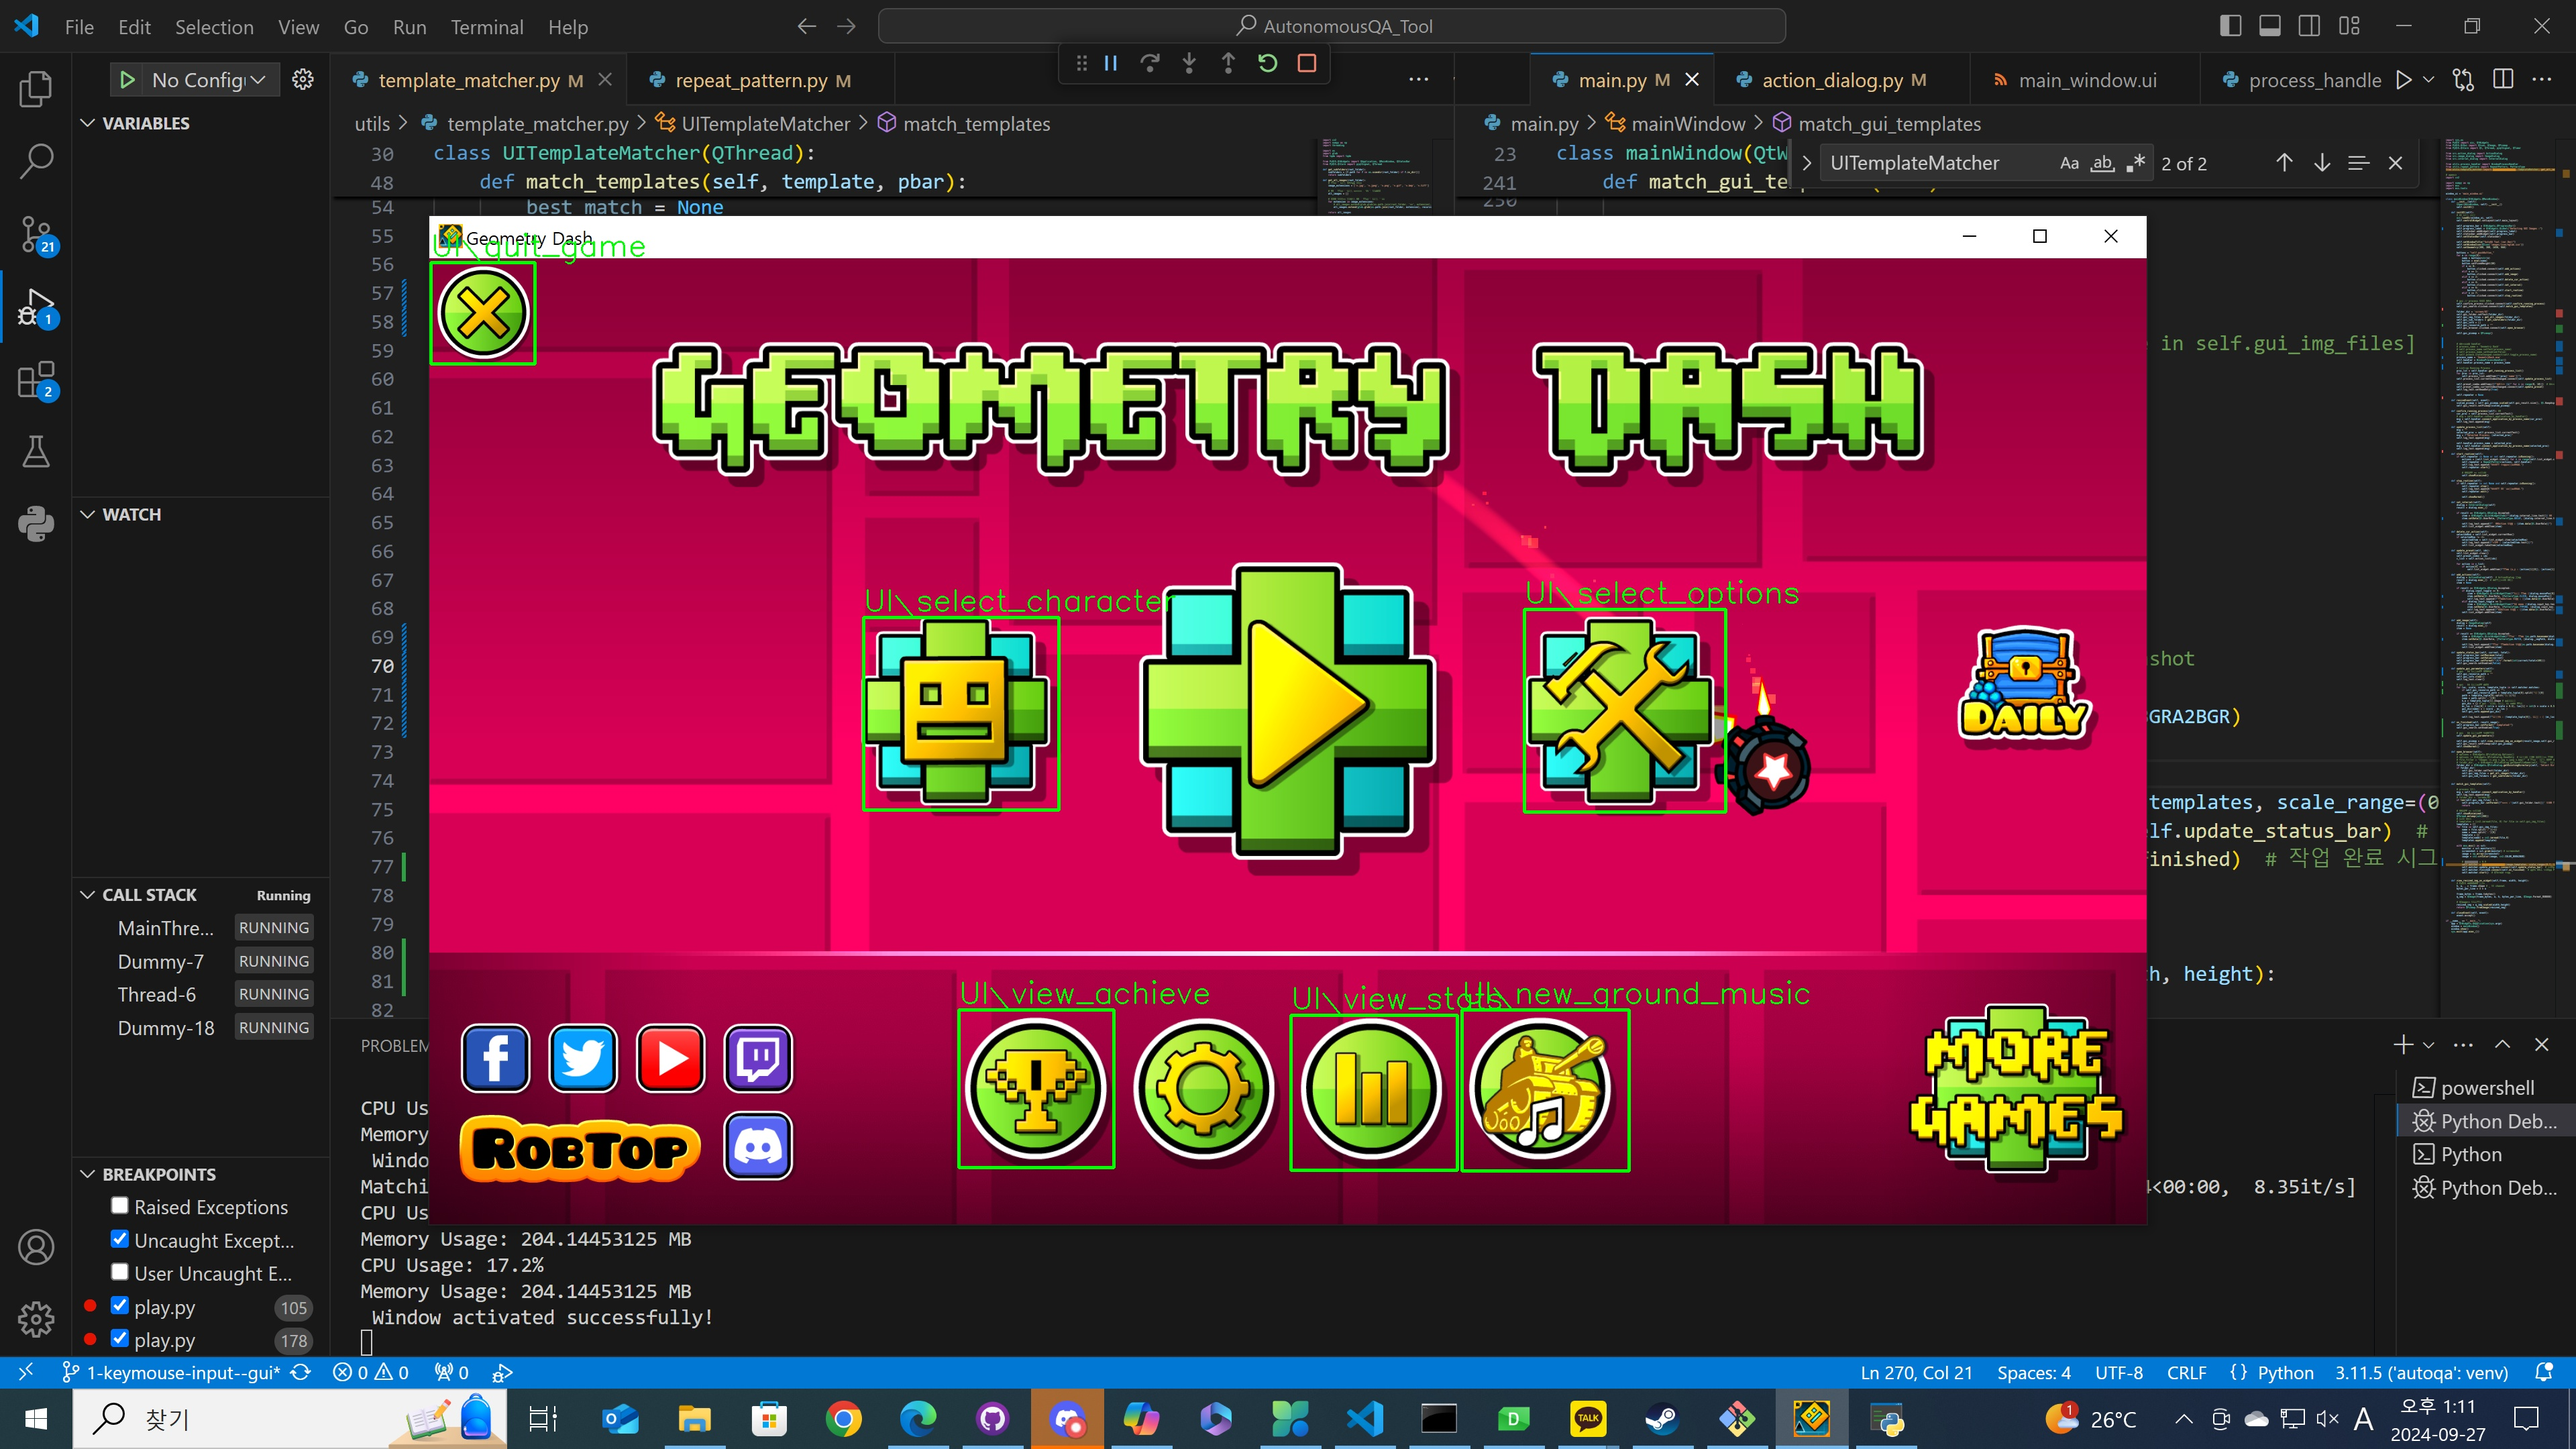
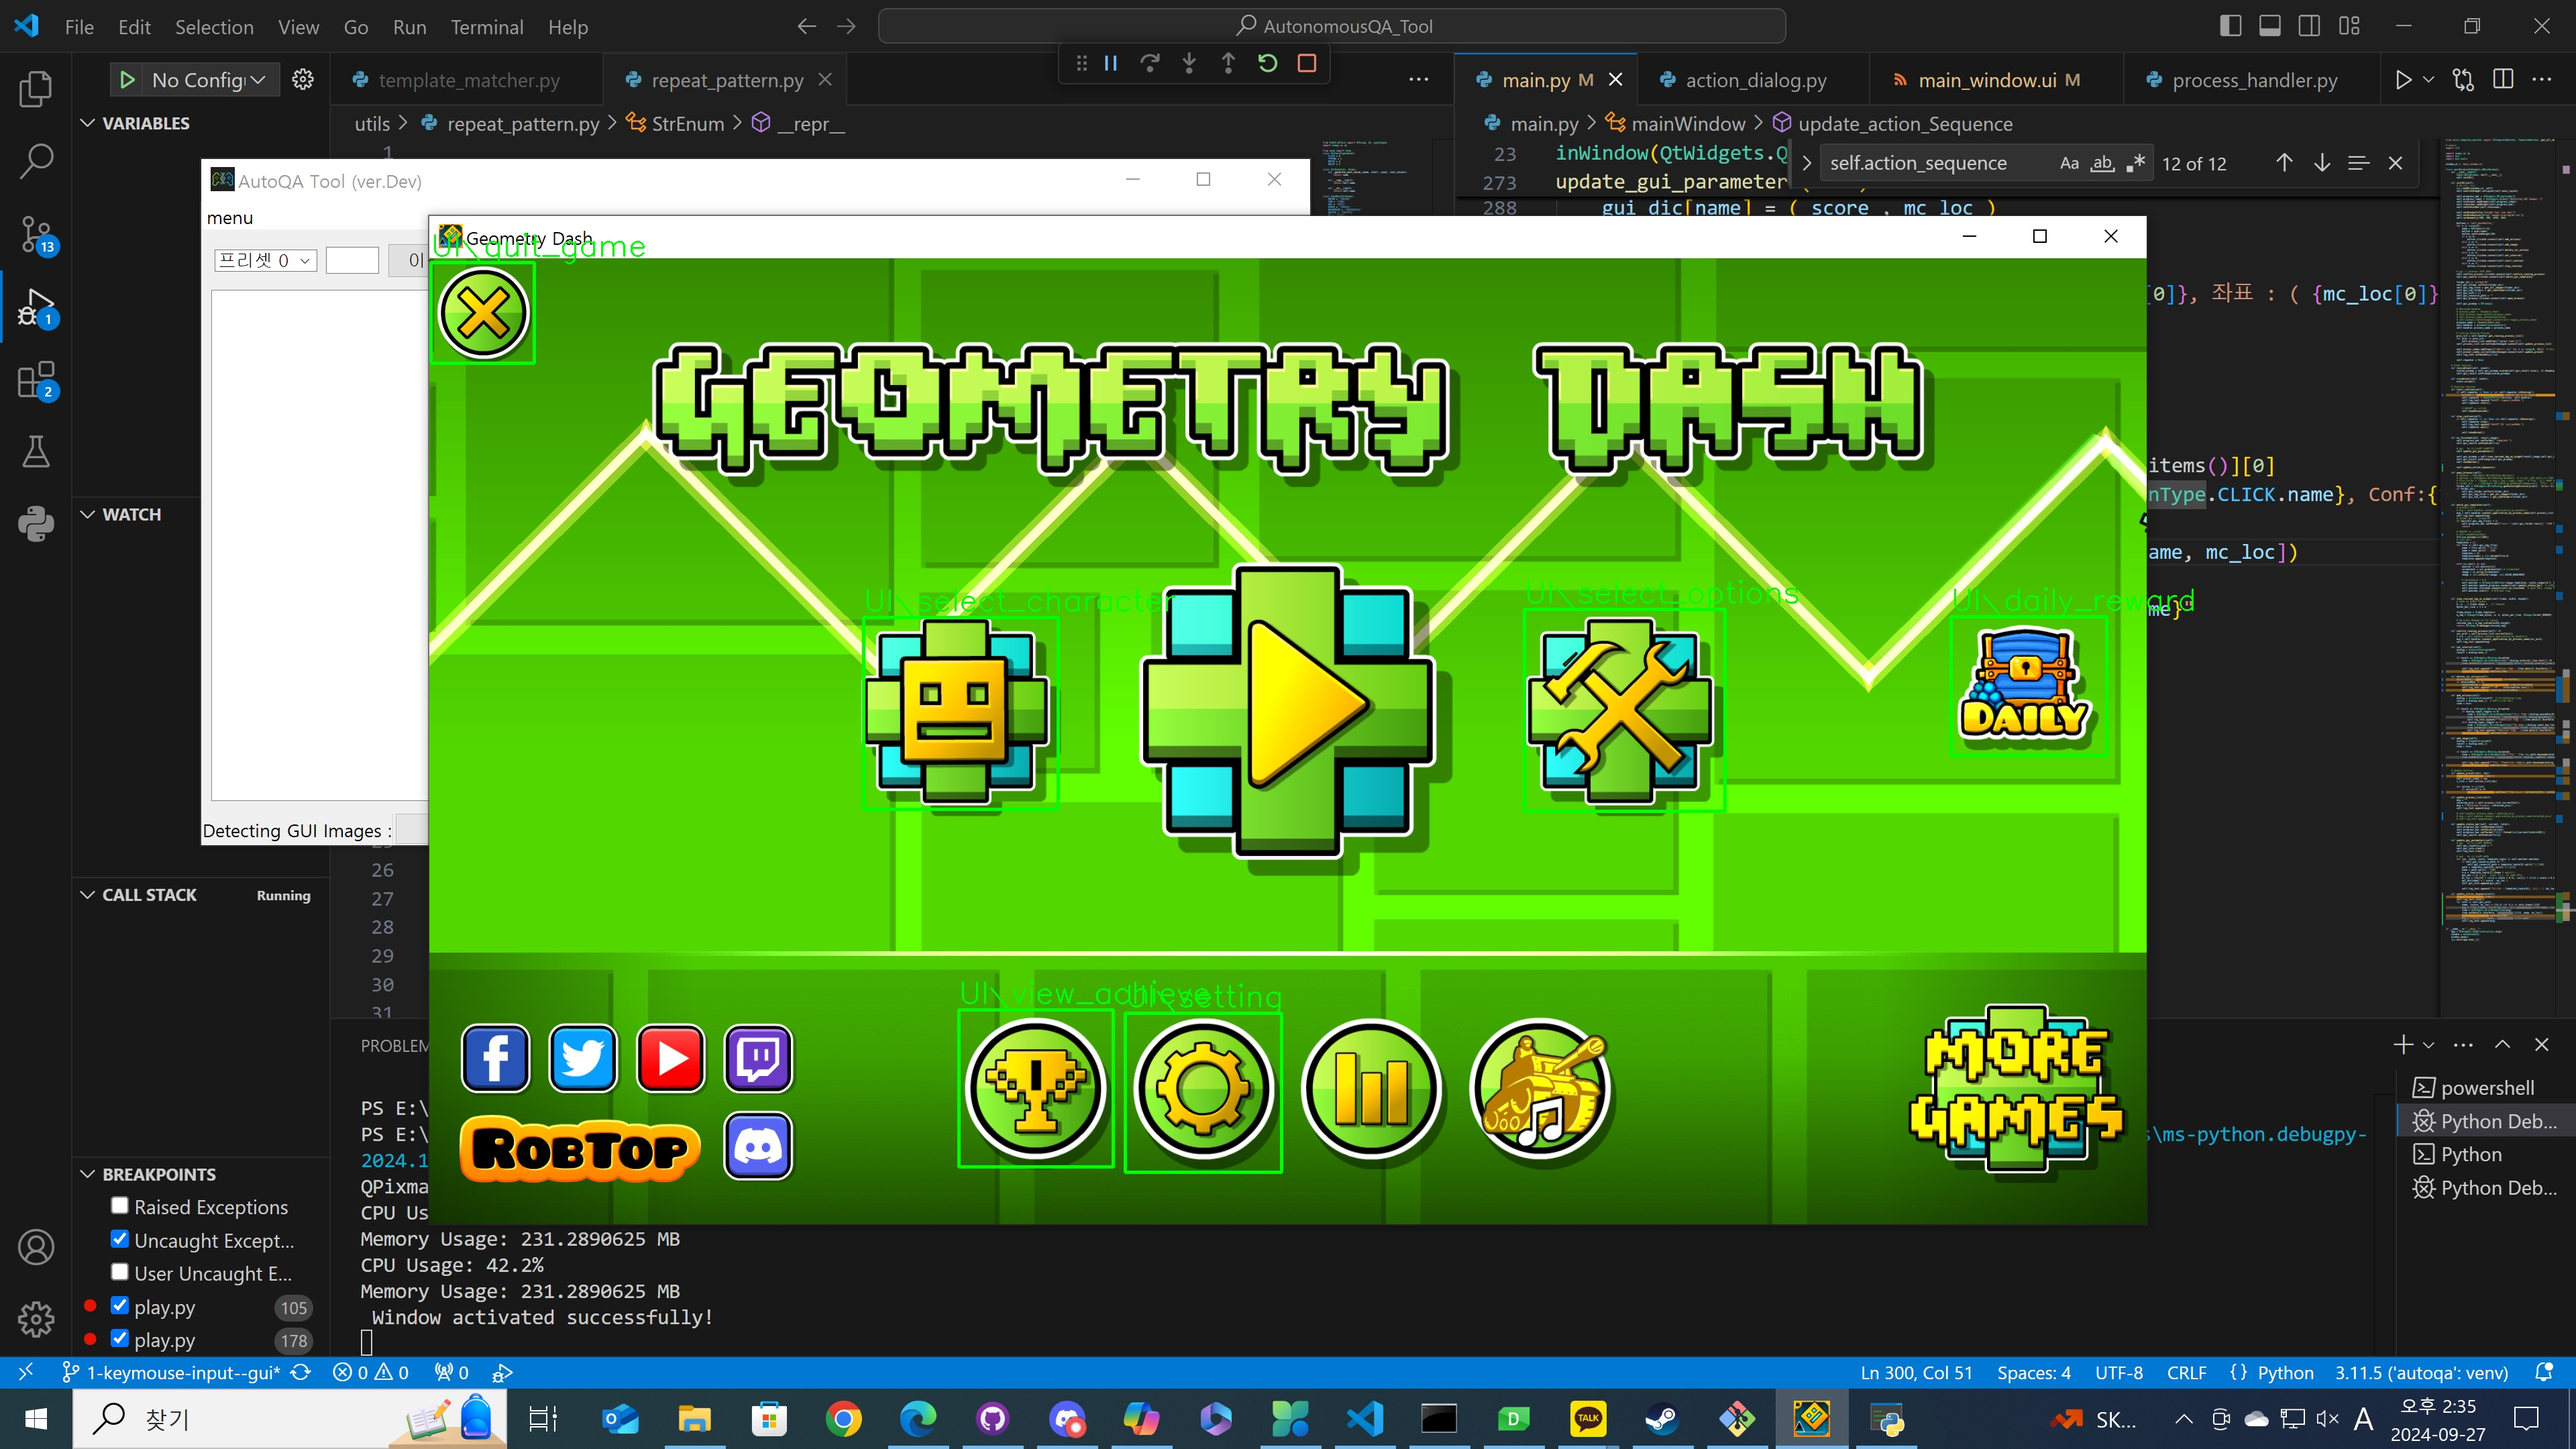
[Update] GUI 이미지 이름과 좌표 등록 자동화 구현[완료]

diff --git a/main.py b/main.py
@@ -104,7 +104,7 @@ class mainWindow(QtWidgets.QMainWindow):
     # Function Section
     def start_routine(self):
         if self.repeater is None or not self.repeater.isRunning():
-            actions = [self.list_widget.item(i) for i in range(self.list_widget.count())]
+            actions = [self.action_sequence.item(i) for i in range(self.action_sequence.count())]
             self.repeater = RepeatPattern(actions, self.handler)
             self.log_text.append("루틴이 시작되었습니다.")
             self.repeater.start()
@@ -130,6 +130,8 @@ class mainWindow(QtWidgets.QMainWindow):
         self.gui_pixmap = self.view_resized_img_on_widget(result_image,self.gui_result.width(),self.gui_result.height())
         self.gui_result.setPixmap(self.gui_pixmap)
         self.showNormal()
+        
+        self.update_action_Sequence()
 
     def open_browser(self):
         # options = QtWidgets.QFileDialog.Options()
@@ -146,7 +148,7 @@ class mainWindow(QtWidgets.QMainWindow):
     def match_gui_templates(self):
         # process 접근
         # msg = self.handler.connect_application_by_handler()
-        msg = self.handler.get_handler_of_window_process(self.process_list.currentText())
+        msg = self.handler.connect_application_by_process_name(self.process_list.currentText())
         self.log_text.append(msg)
         # folder_dir = 'screen/UI'
         if len(self.gui_img_files) < 1:
@@ -154,7 +156,7 @@ class mainWindow(QtWidgets.QMainWindow):
             return
         
         # 윈도우 창 최소화            
-        self.showMinimized()
+        # self.showMinimized()
         QThread.msleep(int(200))
         # 사용 예제
         templates = []
@@ -172,7 +174,7 @@ class mainWindow(QtWidgets.QMainWindow):
             image = cv2.cvtColor(image, cv2.COLOR_BGRA2BGR)
 
             # threshhold = 0.9
-            self.matcher = UITemplateMatcher(image,templates, scale_range=(0.7, 1.2), scale_step=0.15)#,threshold=threshhold)
+            self.matcher = UITemplateMatcher(image,templates, scale_range=(0.7, 1.2), scale_step=0.1)#,threshold=threshhold)
             self.matcher.update_progress.connect(self.update_status_bar)  # 시그널 연결
             self.matcher.finished.connect(self.on_finished)  # 작업 완료 시그널 연결
             self.matcher.start()  # QThread 시작
@@ -205,14 +207,14 @@ class mainWindow(QtWidgets.QMainWindow):
             item.setData(Qt.UserRole, [PatternType.DELAY, [dialog.interval_line.text()]])
 
             self.log_text.append(f"대기Action 추가 : {item.data(Qt.UserRole)}")
-            self.list_widget.addItem(item)
+            self.action_sequence.addItem(item)
             
     def delete_cur_action(self):
-        selectedRow = self.list_widget.currentRow()
+        selectedRow = self.action_sequence.currentRow()
         if selectedRow != -1:
-            selectedItem = self.list_widget.item(selectedRow)
+            selectedItem = self.action_sequence.item(selectedRow)
             self.log_text.append(f"제거 : {selectedItem.text()}")
-            self.list_widget.takeItem(selectedRow)
+            self.action_sequence.takeItem(selectedRow)
     
     def add_actions(self):
         dialog = ActionDialog(self)  # ActionDialog 생성
@@ -228,7 +230,7 @@ class mainWindow(QtWidgets.QMainWindow):
                 item = QtWidgets.QListWidgetItem(f"키 입력 ({dialog.input_key.text()})")
                 item.setData(Qt.UserRole, [PatternType.TYPING, [dialog.input_key.text()]])
                 self.log_text.append(f"키Action 추가 : ({item.data(Qt.UserRole)})")
-            self.list_widget.addItem(item)
+            self.action_sequence.addItem(item)
         
     def add_image(self):
         dialog = ImageDialog(self)
@@ -240,17 +242,17 @@ class mainWindow(QtWidgets.QMainWindow):
             item.setData(Qt.UserRole, [PatternType.MATCH, [dialog._imgPath, dialog.confidence.value()]])
 
             self.log_text.append(f"이미지클릭Action 추가{os.path.basename(dialog._imgPath)}, 유사도:{dialog.confidence.value()}")
-            self.list_widget.addItem(item)
+            self.action_sequence.addItem(item)
 
     # Update Section
     def update_preset(self, idx):
-        self.list_widget.clear()
+        self.action_sequence.clear()
         self.preset_index = idx
         c_list = self.action_list[idx]
         
         for action in c_list:
             if action[0] == 0:
-                self.list_widget.addItem(f"클릭 (x,y : {action[1][0]}, {action[1][1]})")
+                self.action_sequence.addItem(f"클릭 (x,y : {action[1][0]}, {action[1][1]})")
                 
     def update_process_list(self):
         msg = ""
@@ -258,9 +260,9 @@ class mainWindow(QtWidgets.QMainWindow):
         msg = f"Selected Process: {selected_proc}"
         self.log_text.append(msg)
         
-        self.handler.process_name = selected_proc
-        msg = self.handler.connect_application_by_process_name(selected_proc)
-        self.log_text.append(msg)
+        # self.handler.process_name = selected_proc
+        # msg = self.handler.connect_application_by_process_name(selected_proc)
+        # self.log_text.append(msg)
         
     def update_status_bar(self, current, total):
         self.progress_bar.setMaximum(total)
@@ -288,6 +290,18 @@ class mainWindow(QtWidgets.QMainWindow):
       
             self.log_text.append(f"파일명 : {template_tuple[0]}, 좌표 : ( {mc_loc[0]} , {mc_loc[1]} )")
     
+    def update_action_Sequence(self):
+        self.action_sequence.clear()
+        self.log_text.clear()
+        for info in self.gui_info:
+            name, (score, mc_loc) = [[k,v] for k,v in info.items()][0]
+            msg = f"Img:{name}, Coord:{mc_loc}, Act:{PatternType.CLICK.name}, Conf:{100-int(score*100)}"
+            item = QtWidgets.QListWidgetItem(msg)
+            item.setData(Qt.UserRole, [PatternType.CLICK, name, mc_loc])
+            self.action_sequence.addItem(item)
+            msg = f"<< Add : [{name}, {PatternType.CLICK.name}]"
+            self.log_text.append(msg)
+            
         
 if __name__ == "__main__":
     app = QtWidgets.QApplication(sys.argv)
